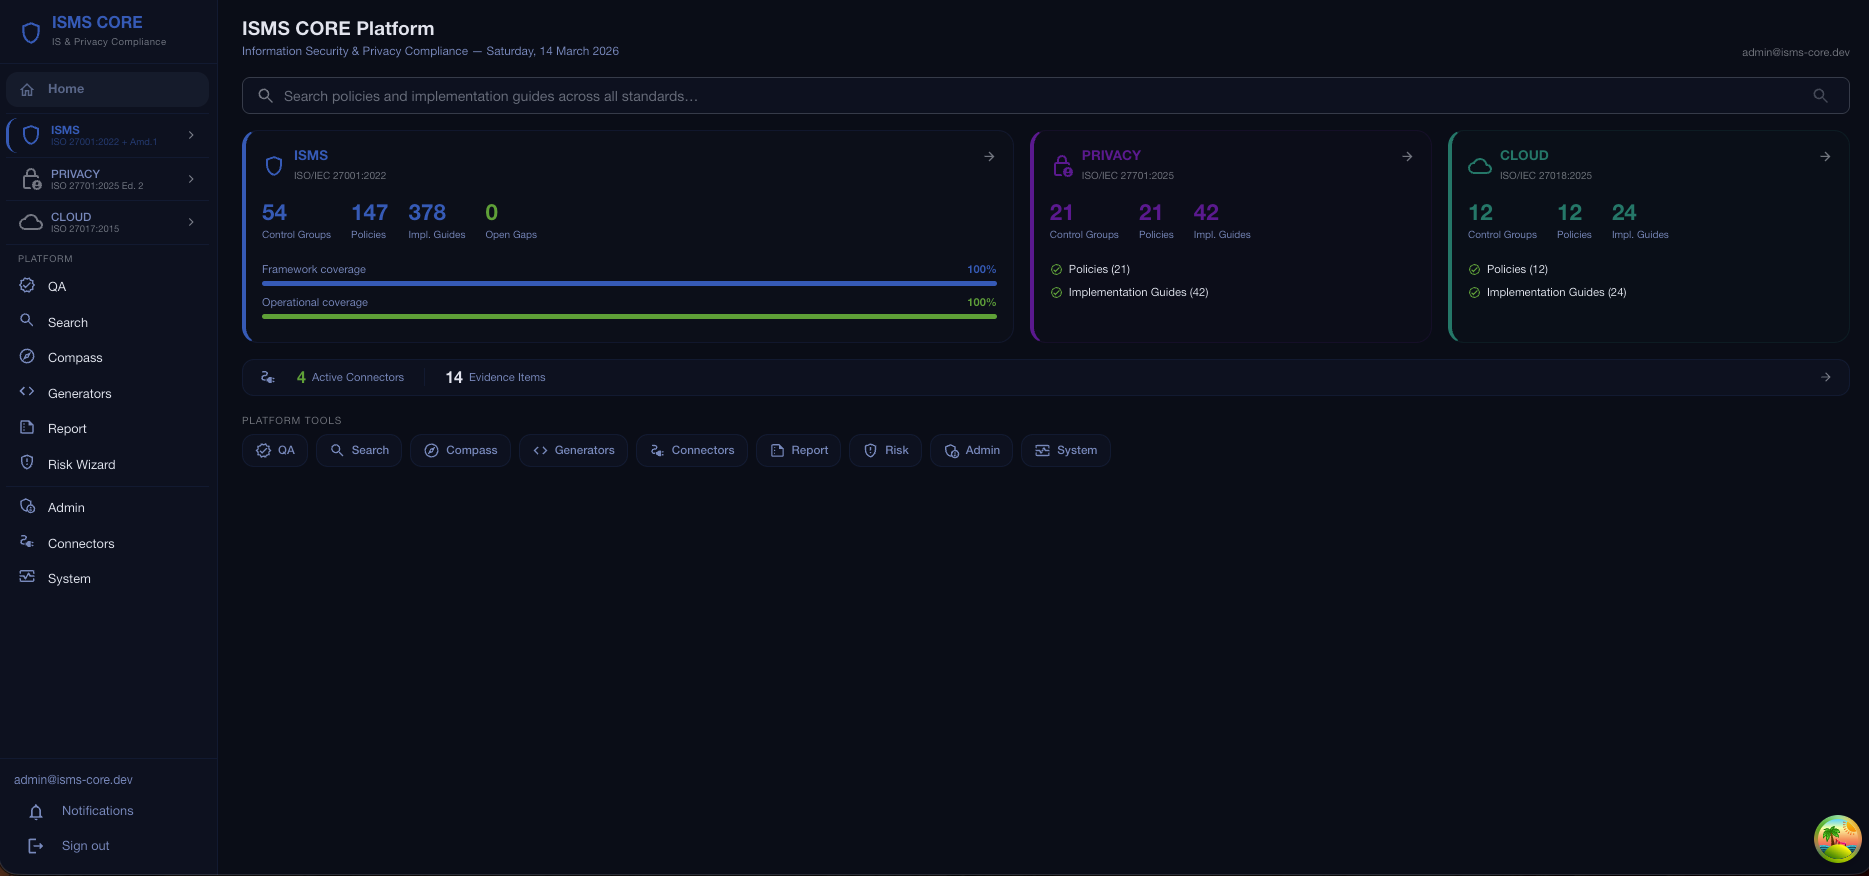
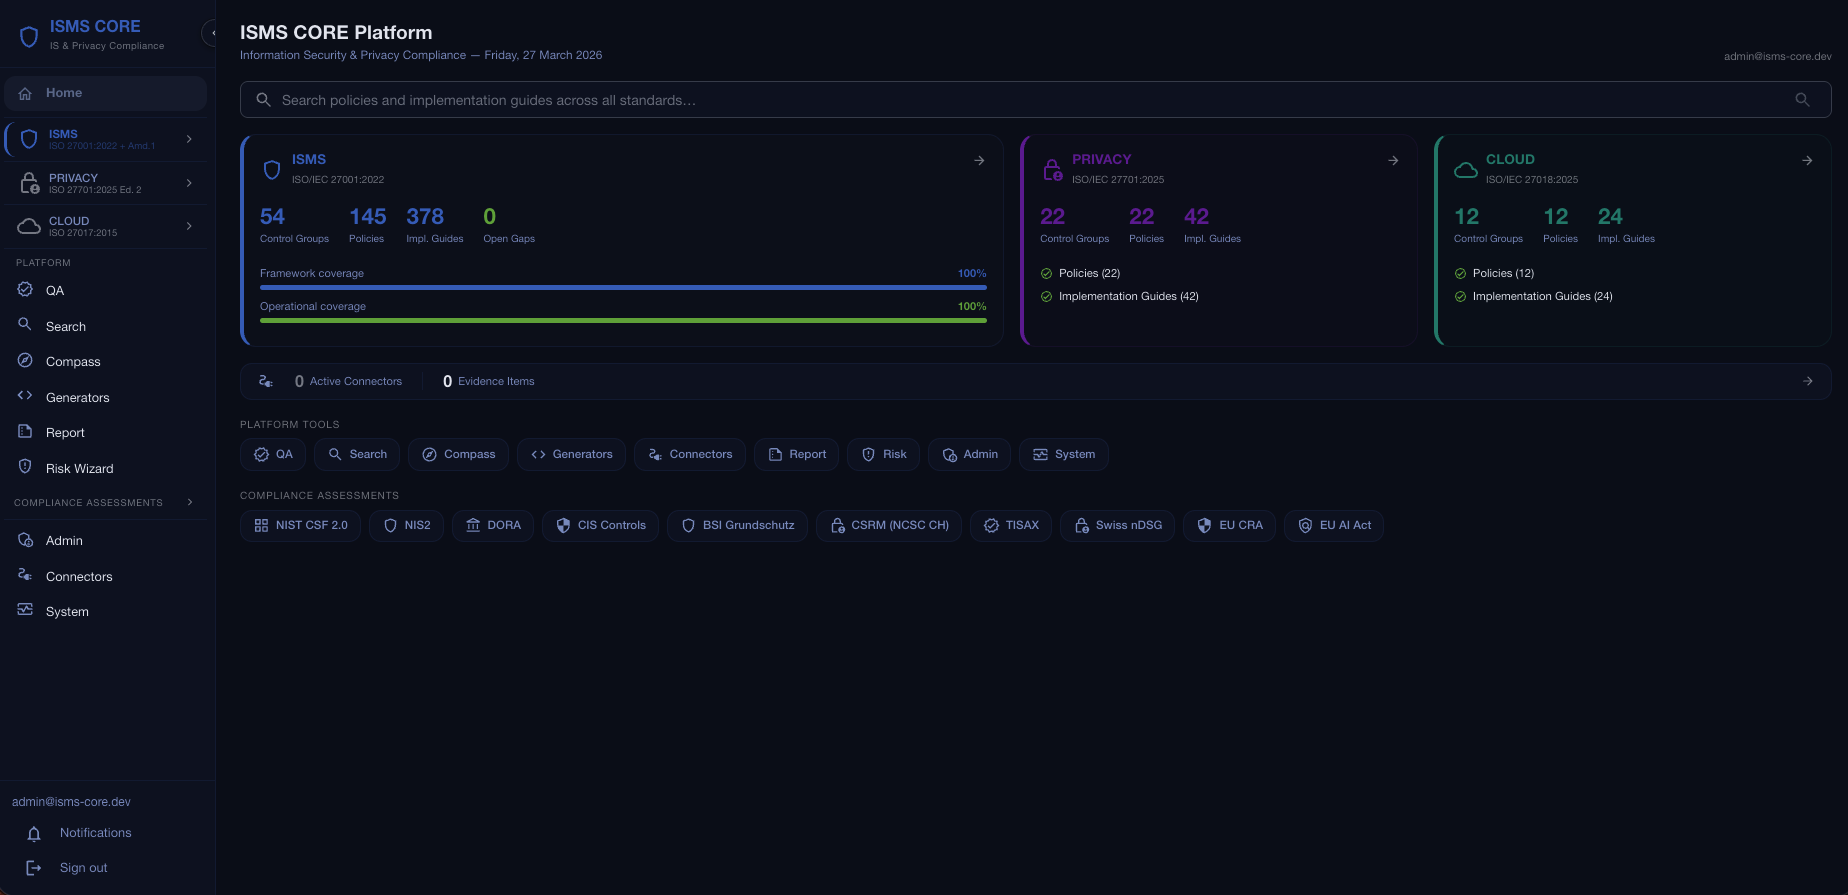
docs: update screenshots to full 22-image set + expand README grid
New: BSI IT-Grundschutz, CSRM, TISAX, Swiss nDSG, EU CRA, EU AI Act,
Assessments/Collections, Gaps+BSI Risk. Updated home dashboard screenshot
with compliance quick-access row. Grid now 9 rows × 2 cols.

diff --git a/README.md b/README.md
@@ -270,15 +270,19 @@ python3 generate_cld_checklist_a11.py
 <table>
 <tr>
 <td align="center"><strong>Login</strong><br/><img src="screenshots/01_isms-core_logon.png" width="380" alt="Login screen"/></td>
-<td align="center"><strong>Home Dashboard</strong><br/><img src="screenshots/02_isms-core_home.png" width="380" alt="Home dashboard — ISMS + Privacy + Cloud product switcher"/></td>
+<td align="center"><strong>Home Dashboard</strong><br/><img src="screenshots/02_isms-core_home.png" width="380" alt="Home dashboard — ISMS + Privacy + Cloud product switcher with compliance quick-access row"/></td>
 </tr>
 <tr>
-<td align="center"><strong>Compliance Overview</strong><br/><img src="screenshots/03_isms-core-oveview.png" width="380" alt="Compliance overview — 54 controls, 100% coverage, 77.4% audit readiness"/></td>
+<td align="center"><strong>Compliance Overview</strong><br/><img src="screenshots/03_isms-core-oveview.png" width="380" alt="Compliance overview — 54 controls, 100% coverage, audit readiness"/></td>
 <td align="center"><strong>Connectors</strong><br/><img src="screenshots/07_isms-core_connectors.png" width="380" alt="Automated evidence connectors — MS Entra ID, Defender, M365, Azure CSPM"/></td>
 </tr>
 <tr>
 <td align="center"><strong>ISMS Compass (AI Gap Analysis)</strong><br/><img src="screenshots/05_isms-core_compass.png" width="380" alt="ISMS Compass — AI-powered gap analysis against Gold Standard"/></td>
 <td align="center"><strong>System Status</strong><br/><img src="screenshots/08_isms-core_system.png" width="380" alt="System status — all services healthy, 87 groups, OpenSearch green"/></td>
+</tr>
+<tr>
+<td align="center"><strong>Assessments &amp; Collections</strong><br/><img src="screenshots/20_isms-core_assessments.png" width="380" alt="Platform assessments with collections — grouped scoring, CSV/XLSX/PDF export"/></td>
+<td align="center"><strong>Gaps &amp; BSI Risk</strong><br/><img src="screenshots/21_isms-core_gaps.png" width="380" alt="Gap register with BSI 200-3 risk scoring — likelihood, impact, risk level"/></td>
 </tr>
 <tr>
 <td align="center"><strong>NIST CSF 2.0 Assessment</strong><br/><img src="screenshots/10_isms-core_nist-csf.png" width="380" alt="NIST CSF 2.0 — 106 subcategory assessment with tier ratings, function breakdown, and gap analysis"/></td>
@@ -287,6 +291,18 @@ python3 generate_cld_checklist_a11.py
 <tr>
 <td align="center"><strong>DORA Assessment</strong><br/><img src="screenshots/12_isms-core_dora.png" width="380" alt="DORA (EU 2022/2554) — 25 articles across 4 chapters, ICT risk maturity scoring 0–4"/></td>
 <td align="center"><strong>CIS Controls v8 Assessment</strong><br/><img src="screenshots/13_isms-core_cis8.png" width="380" alt="CIS Critical Security Controls v8 — 153 safeguards across 18 controls, maturity scoring 0–4"/></td>
+</tr>
+<tr>
+<td align="center"><strong>BSI IT-Grundschutz Assessment</strong><br/><img src="screenshots/14_isms-core_bsi.png" width="380" alt="BSI IT-Grundschutz Kompendium — 68 building blocks mapped to ISO 27001:2022"/></td>
+<td align="center"><strong>CSRM (NCSC Switzerland)</strong><br/><img src="screenshots/15_isms-core_csrm.png" width="380" alt="Swiss NCSC Cyber Security Risk Management — object-centric assessment model"/></td>
+</tr>
+<tr>
+<td align="center"><strong>TISAX Assessment</strong><br/><img src="screenshots/16_isms-core_tisax.png" width="380" alt="TISAX — VDA ISA automotive information security assessment"/></td>
+<td align="center"><strong>Swiss nDSG Assessment</strong><br/><img src="screenshots/17_isms-core_ndsg.png" width="380" alt="Swiss nDSG (revDSG) — Federal Act on Data Protection compliance assessment"/></td>
+</tr>
+<tr>
+<td align="center"><strong>EU Cyber Resilience Act</strong><br/><img src="screenshots/18_isms-core_eu-cra.png" width="380" alt="EU Cyber Resilience Act — product security requirements assessment"/></td>
+<td align="center"><strong>EU AI Act Assessment</strong><br/><img src="screenshots/19_isms-core_eu-ai.png" width="380" alt="EU AI Act — risk classification and compliance requirements for AI systems"/></td>
 </tr>
 </table>
 
